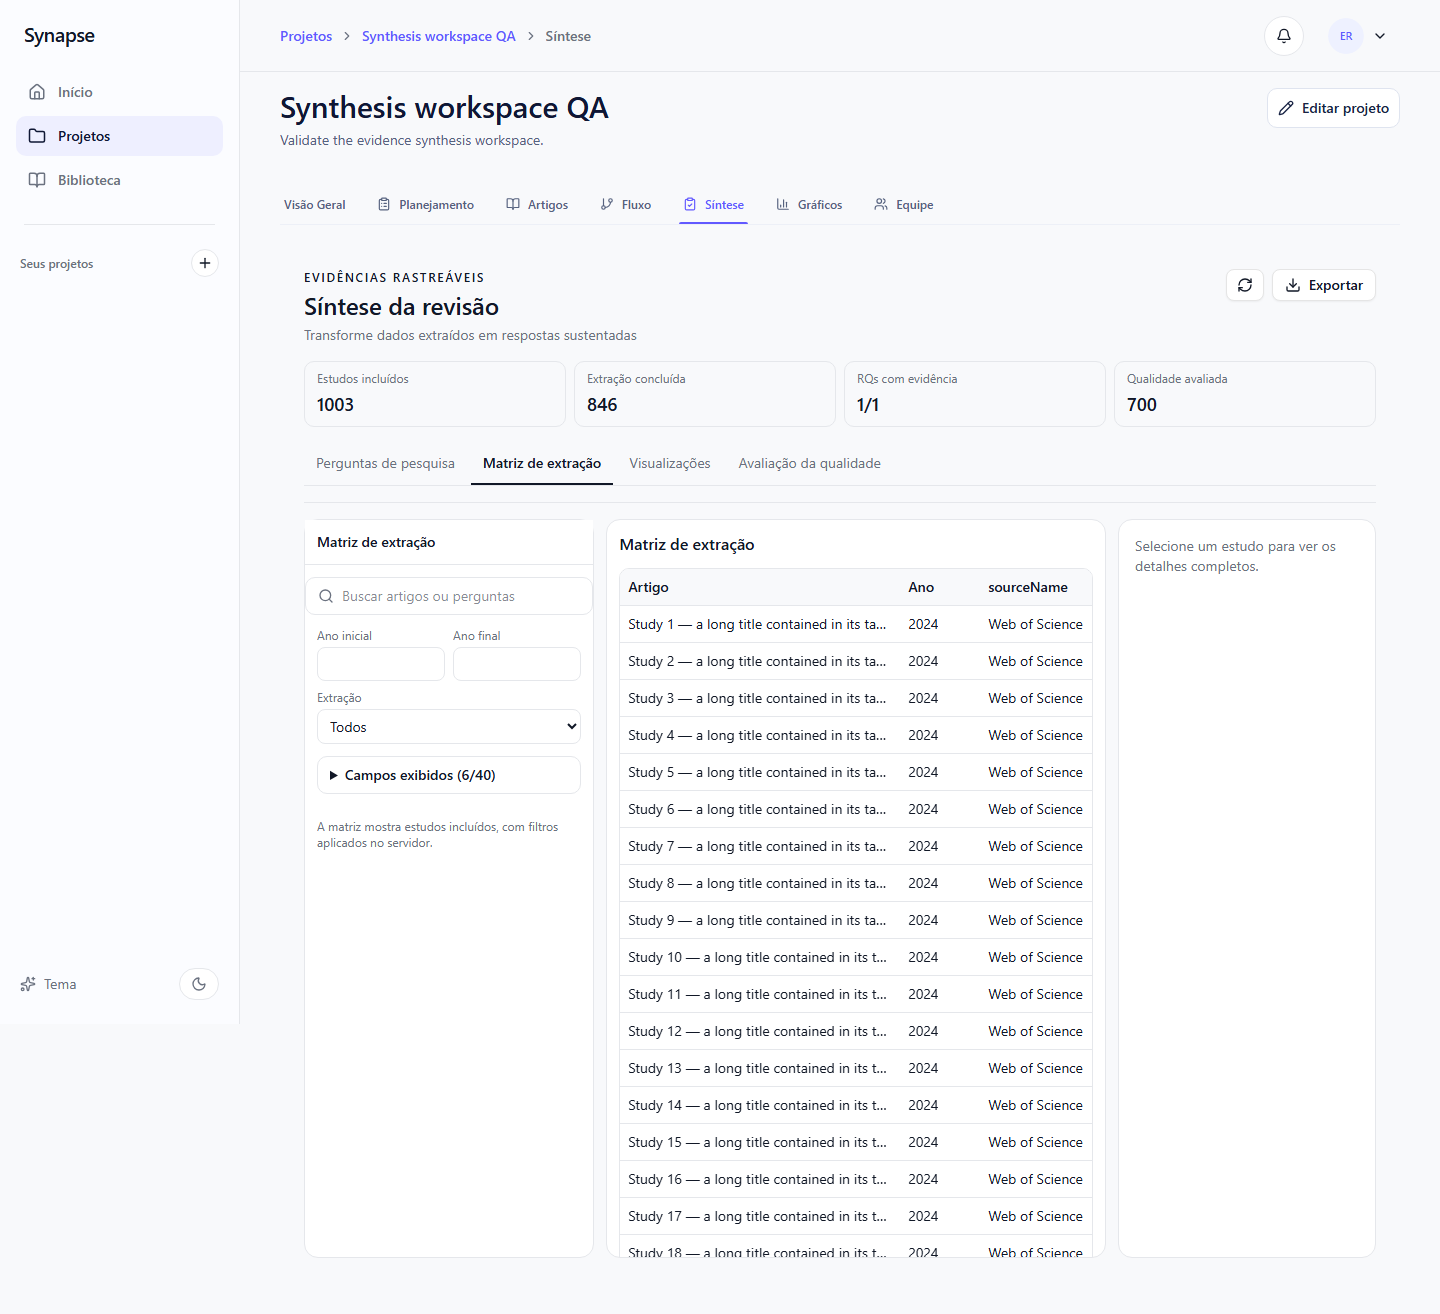
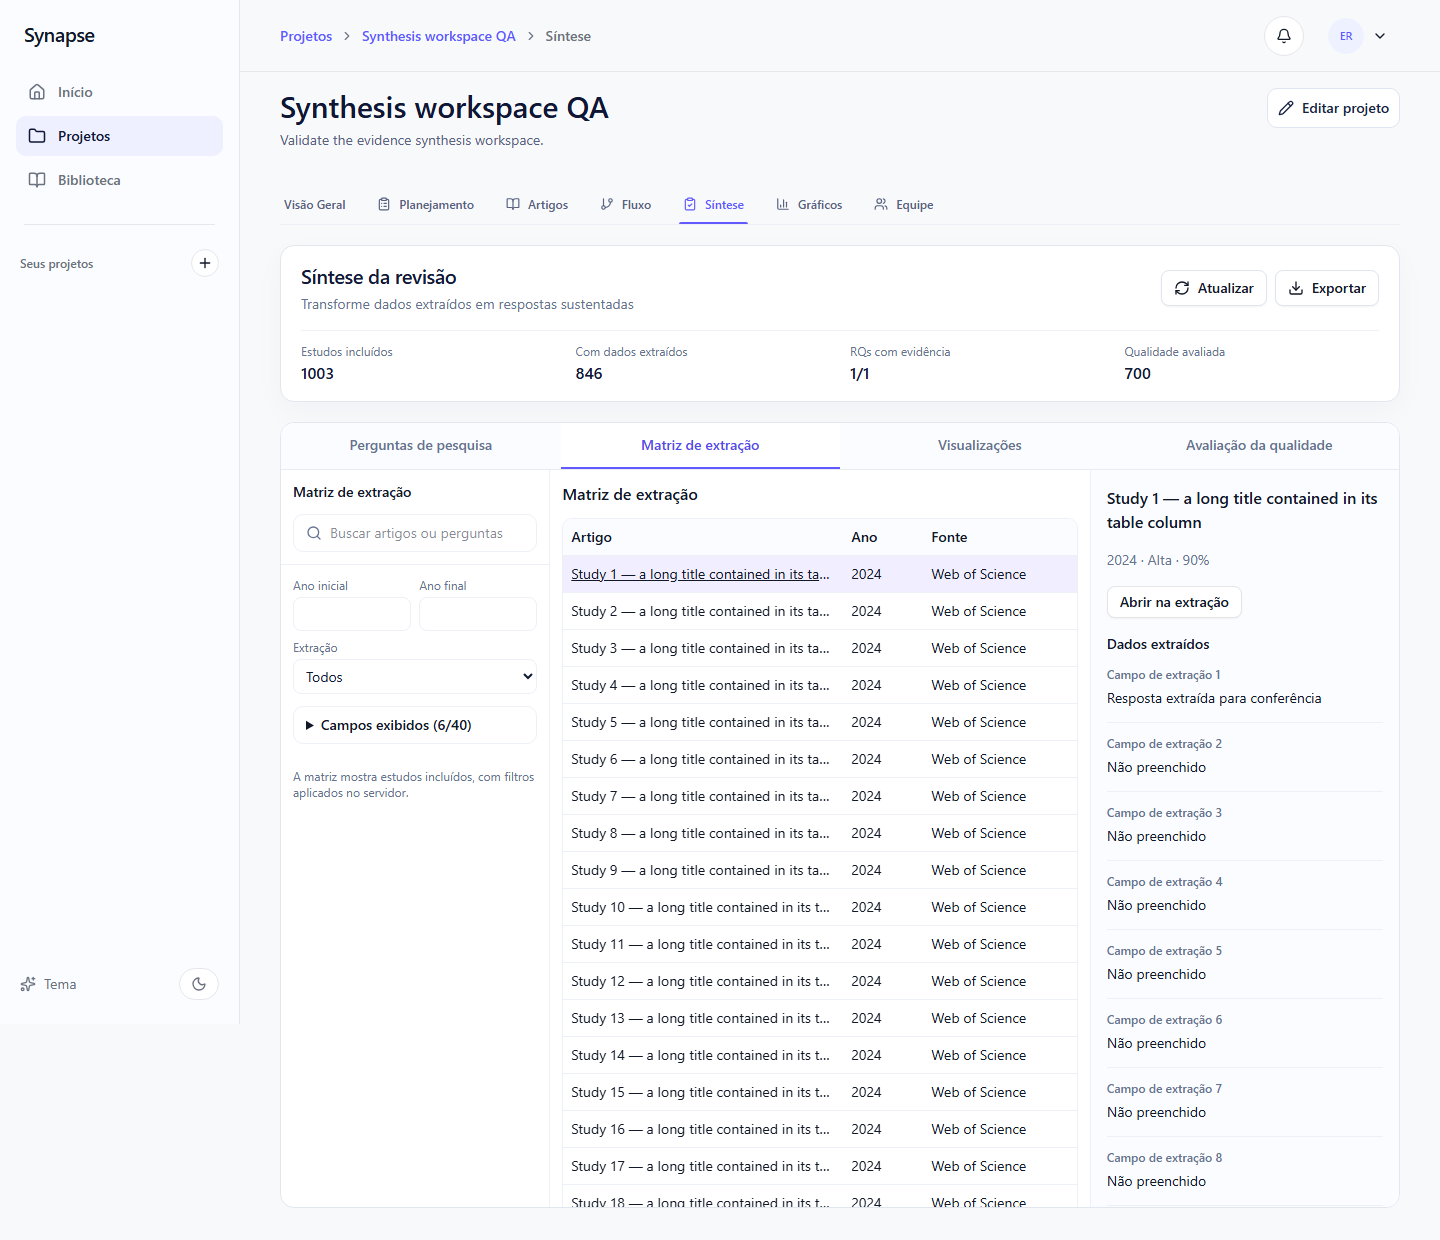
chore: retain synthesis audit evidence and isolate test artifacts

diff --git a/frontend/e2e/team-layout.spec.js b/frontend/e2e/team-layout.spec.js
@@ -32,7 +32,7 @@ test("team table fills its card and keeps removal visibly destructive and confir
     const actions = await page.getByRole("button", { name: "Transferir propriedade para Bruno" }).boundingBox();
     expect(card.x + card.width - actions.x - actions.width).toBeLessThan(30);
   }
-  await page.screenshot({ path: `../docs/audits/team-layout-${testInfo.project.name}.png`, fullPage: true });
+  await page.screenshot({ path: `test-results/evidence/team-layout-${testInfo.project.name}.png`, fullPage: true });
   await remove.click();
   const dialog = page.getByRole("dialog", { name: "Remover pessoa?" });
   await expect(dialog).toBeVisible();
@@ -55,6 +55,6 @@ test("team table fills its card and keeps removal visibly destructive and confir
   await expect(page.getByText("Nenhuma discordância neste projeto.")).toBeVisible();
   await navigation.getByRole("button", { name: /Distribuição/ }).click();
   await expect(page.getByText("12 artigos · 2 revisores")).toBeVisible();
-  await page.screenshot({ path: `../docs/audits/team-distribution-${testInfo.project.name}.png`, fullPage: true });
+  await page.screenshot({ path: `test-results/evidence/team-distribution-${testInfo.project.name}.png`, fullPage: true });
   await expect.poll(() => page.evaluate(() => document.documentElement.scrollWidth <= window.innerWidth)).toBeTruthy();
 });

diff --git a/docs/superpowers/2026-10-10-evidence-synthesis-workspace-review.md b/docs/superpowers/2026-10-10-evidence-synthesis-workspace-review.md
@@ -36,3 +36,15 @@ O código deixa o módulo do worker em `backend/app/synthesis_worker.py`, pois o
 ## Segurança e integridade
 
 Leitura e escrita são autorizadas separadamente por capacidade de projeto. Jobs e rascunhos são persistidos antes da resposta, conflitos são HTTP 409 e não sobrescrevem conteúdo. Exportações percorrem páginas, aplicam escopo `filtered` ou `full`, escapam células de fórmula e mantêm Unicode/quebras de linha.
+
+## Correção após uso local — 2026-10-10
+
+O reinício simples deixou o backend com a imagem antiga de migrations. Logs anteriores mostravam 404 nas novas rotas; após o reinício as rotas estavam registradas, mas o container ainda identificava `0004_inbox_invite_consent` como head e não continha a migration de Síntese. `docker compose up -d --build --no-deps backend` atualizou a imagem e aplicou `0005_evidence_synthesis`. Consultas reais do projeto 7 retornaram 5 RQs, 3 estudos incluídos e 2 avaliados.
+
+O smoke de dados também revelou que `overall` estava sendo aplicado como chave de resposta na listagem de Qualidade. A consulta geral agora lista os estudos incluídos; a distribuição respeita os mesmos filtros da lista. Esse caso tem regressão backend.
+
+A composição passou a usar um único painel com divisórias, abas integradas, cabeçalho compacto e as mesmas cores/espaçamentos de Planejamento e Artigos. Os tokens de destaque antes indefinidos foram definidos no escopo da Síntese. Erros HTTP agora aparecem com tentativa novamente; atualizar dados conserva o rascunho local e recarrega o modo ativo.
+
+Verificação desta correção: 12 testes backend de consultas/geração, 54 arquivos / 296 testes frontend, lint, build e os 2 E2E desktop/mobile aprovados. Houve um timeout inicial no teste de Artigos durante execução paralela com build; ele passou isoladamente e a suíte completa passou com `--maxWorkers=2`. As capturas foram atualizadas e inspecionadas. A validação visual usa o cenário E2E com dados simulados; a validação dos dados reais foi feita por consultas de leitura no backend. O worker real ainda não foi exercitado.
+
+Este registro descreve a validação de Síntese de 2026-10-10. As verificações posteriores da refatoração e da correção no Neo4j estão no [relatório de arquitetura](../audits/architecture-maintainability-2026-10-10/verification.md).
